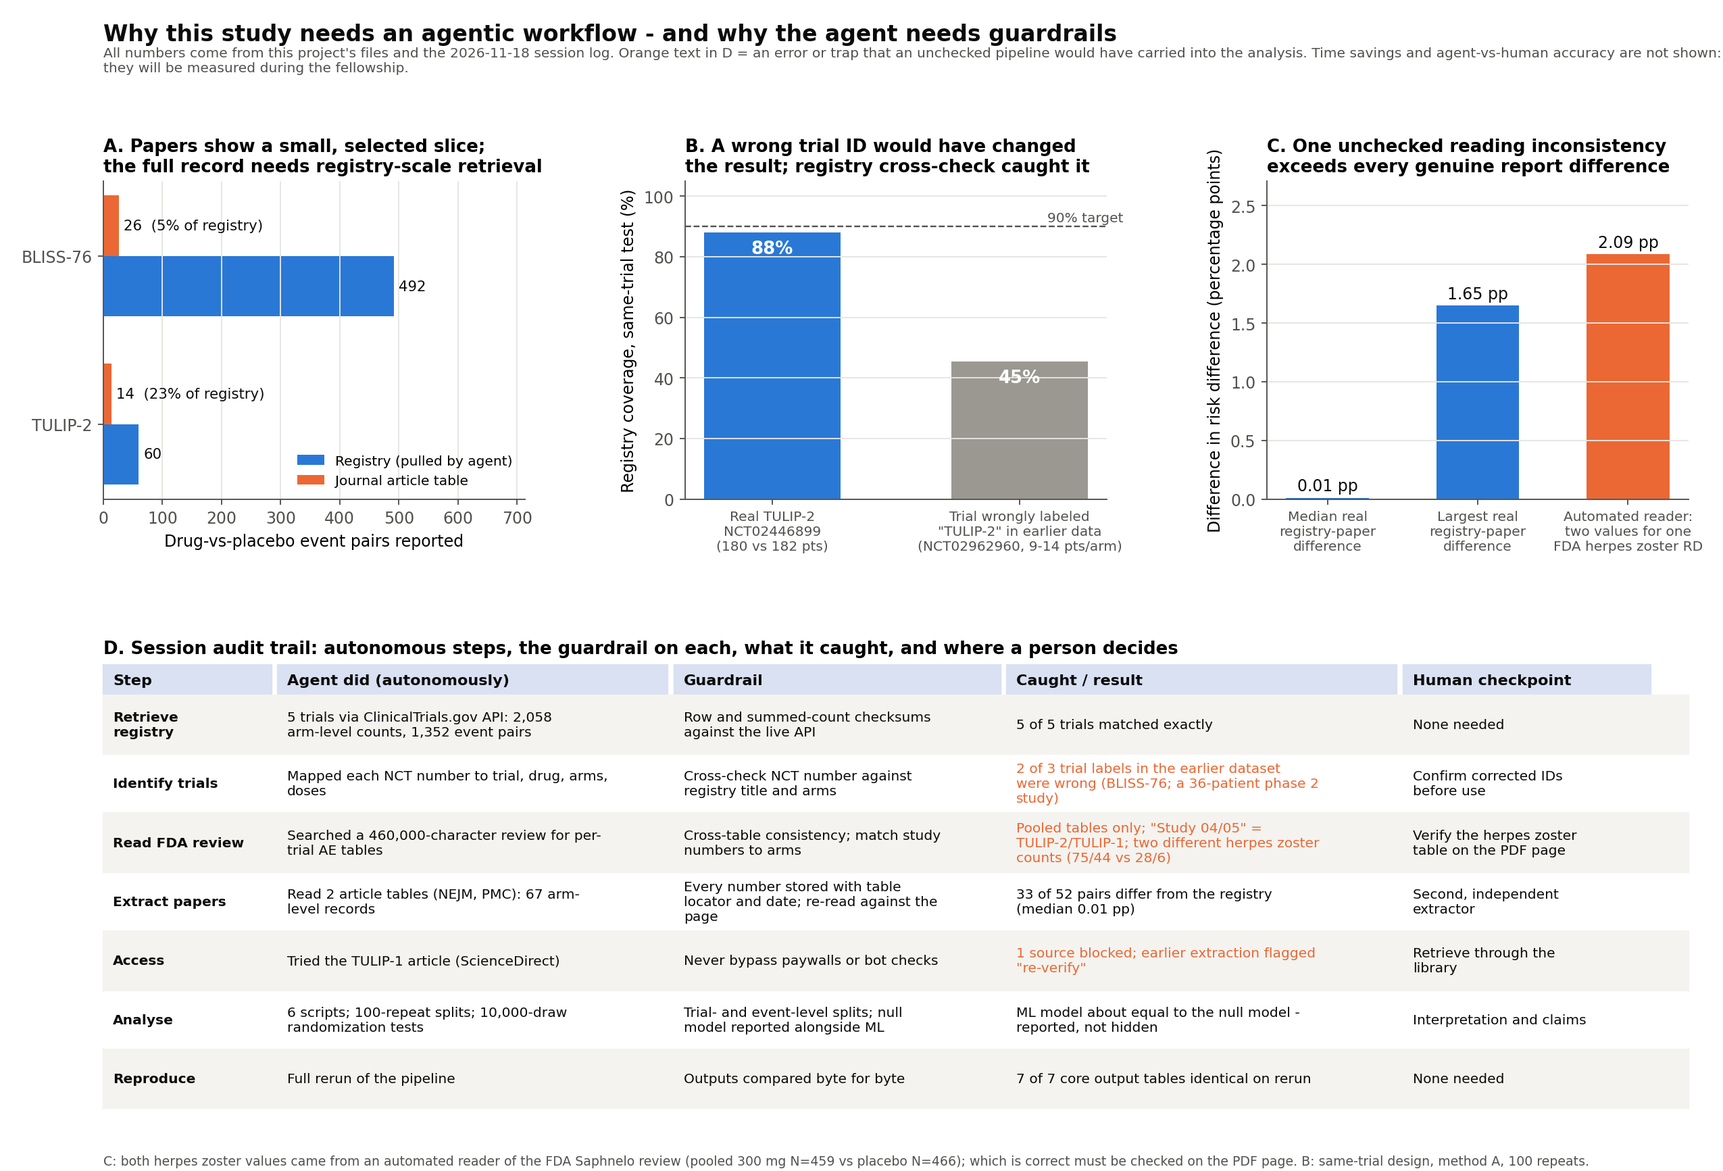
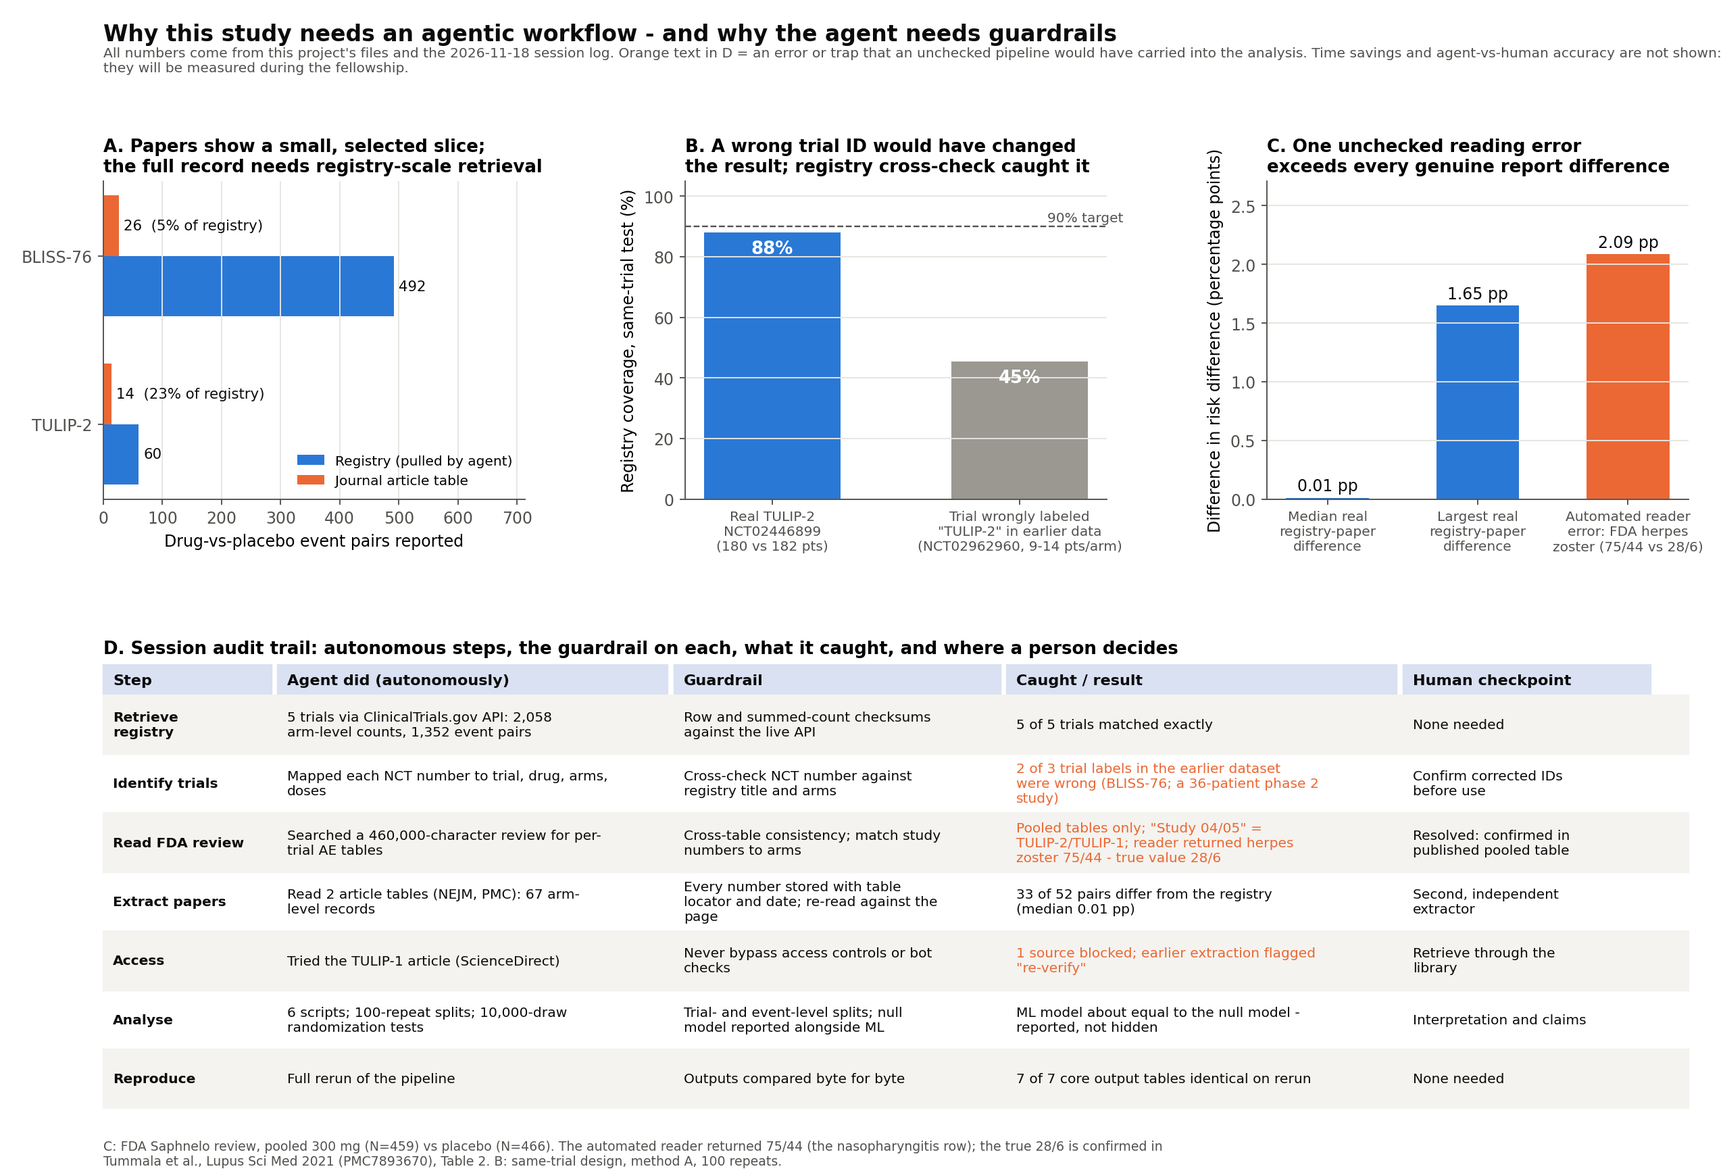
Complete source table; resolve FDA herpes zoster value; locate Benlysta review
- Overview figure panel A: citations, tables and FDA status for all 5 trials
- Saphnelo pooled herpes zoster is 28/6 (Tummala 2021, PMC7893670, Table 2);
  the automated reading's 75/44 was the nasopharyngitis row
- Benlysta medical review located: 212 scanned pages, OCR needed

diff --git a/scripts/08_explainer_figure.py b/scripts/08_explainer_figure.py
@@ -16,20 +16,20 @@ BLUE, ORANGE, RED, INK, INK2, GRID, HDR = '#2a78d6', '#eb6834', '#c4314b', '#0b0
 plt.rcParams.update({'font.family': 'DejaVu Sans', 'font.size': 9.5, 'axes.edgecolor': INK2, 'xtick.color': INK2, 'ytick.color': INK2,
                      'axes.spines.top': False, 'axes.spines.right': False, 'axes.titleweight': 'bold', 'axes.titlesize': 11, 'axes.titlelocation': 'left'})
 fig = plt.figure(figsize=(16, 9.4)); fig.patch.set_facecolor('white')
-gs = fig.add_gridspec(2, 2, height_ratios=[0.78, 1], width_ratios=[1, 1], hspace=.36, wspace=.24, left=.055, right=.985, top=.9, bottom=.135)
+gs = fig.add_gridspec(2, 2, height_ratios=[0.78, 1], width_ratios=[1, 1], hspace=.5, wspace=.24, left=.055, right=.985, top=.9, bottom=.135)
 fig.suptitle('Study overview: adverse-event risk differences for the same lupus trials in ClinicalTrials.gov vs the journal article',
              x=.055, ha='left', fontsize=14, fontweight='bold', color=INK)
 
 # ---------------- A. sources table ----------------
 a = fig.add_subplot(gs[0, :]); a.axis('off'); a.set_title('A. Trials and sources', loc='left')
-cols = ['Trial', 'Registry ID', 'Drug (arms vs placebo)', 'ClinicalTrials.gov\nevent pairs', 'Journal article (table; reporting rule)', 'Article\nevent pairs', 'FDA review']
-W = [.08, .1, .2, .1, .3, .08, .14]; xs = np.cumsum([0] + W[:-1])
+cols = ['Trial', 'Registry ID', 'Drug (arms vs placebo)', 'ClinicalTrials.gov\nevent pairs', 'Journal article (table; reporting rule)', 'Article\nevent pairs', 'FDA approval review']
+W = [.075, .085, .155, .09, .32, .065, .21]; xs = np.cumsum([0] + W[:-1])
 rows = [
- ['TULIP-1', 'NCT02446912', 'anifrolumab IV 150 / 300 mg', n_reg['TULIP-1'], 'Furie 2019, Lancet Rheumatol (6 terms; re-verify)', n_pub['TULIP-1'], 'BLA 761123: pooled'],
- ['TULIP-2', 'NCT02446899', 'anifrolumab IV 300 mg', n_reg['TULIP-2'], 'Morand 2020, NEJM, Table 3 (AEs >5% in drug arm)', n_pub['TULIP-2'], 'BLA 761123: pooled'],
- ['BLISS-76', 'NCT00410384', 'belimumab IV 1 / 10 mg/kg', n_reg['BLISS-76'], 'Furie 2011, Arthritis Rheum, Table 3 (AEs >=10% any arm)', n_pub['BLISS-76'], 'BLA 125370: to locate'],
- ['BLISS-52', 'NCT00424476', 'belimumab IV 1 / 10 mg/kg', n_reg['BLISS-52'], 'not yet extracted (training data only)', '-', 'BLA 125370: to locate'],
- ['D3461C00008', 'NCT02962960', 'anifrolumab SC, phase 2 (n = 36)', n_reg['SC-phase2 (D3461C00008)'], 'not extracted (training data only)', '-', '-'],
+ ['TULIP-1', 'NCT02446912', 'anifrolumab IV 150 / 300 mg', n_reg['TULIP-1'], 'Furie 2019, Lancet Rheumatol 1:e208-19 (6 terms; re-verify)', n_pub['TULIP-1'], 'Saphnelo approval review:\ntrials combined, no per-trial counts'],
+ ['TULIP-2', 'NCT02446899', 'anifrolumab IV 300 mg', n_reg['TULIP-2'], 'Morand 2020, NEJM 382:211-21, Table 3 (AEs >5% in drug arm)', n_pub['TULIP-2'], 'Saphnelo approval review:\ntrials combined, no per-trial counts'],
+ ['BLISS-76', 'NCT00410384', 'belimumab IV 1 / 10 mg/kg', n_reg['BLISS-76'], 'Furie 2011, Arthritis Rheum 63:3918-30, Table 3 (AEs >=10% any arm)', n_pub['BLISS-76'], 'Benlysta approval review:\nscanned pages, text not yet readable'],
+ ['BLISS-52', 'NCT00424476', 'belimumab IV 1 / 10 mg/kg', n_reg['BLISS-52'], 'Navarra 2011, Lancet 377:721-31 (not extracted)', 0, 'Benlysta approval review:\nscanned pages, text not yet readable'],
+ ['D3461C00008', 'NCT02962960', 'anifrolumab SC, phase 2 (n = 36)', n_reg['SC-phase2 (D3461C00008)'], 'Bruce 2021, Lancet Rheumatol 3:e101-10 (not extracted)', 0, 'None: this injection form was\nnot part of the 2021 approval'],
 ]
 top, rh = .93, .155
 for j, c in enumerate(cols):
@@ -41,8 +41,12 @@ for i, r in enumerate(rows):
     for j, v in enumerate(r):
         a.text(xs[j] + .005, y + rh / 2, str(v), transform=a.transAxes, fontsize=9, va='center', color=INK2 if i > 2 else INK,
                fontweight='bold' if j == 0 else 'normal')
-a.text(0, top - .12 - 5 * rh - .1, 'Event pair = one adverse-event term (MedDRA) x one active arm vs placebo x seriousness category.  '
-       'Risk difference (RD) = proportion with the event on drug - proportion on placebo.', transform=a.transAxes, fontsize=8.6, color=INK2)
+a.text(0, top - .12 - 5 * rh - .3,
+       'Event pair = one adverse-event term (MedDRA) x one active arm vs placebo x seriousness category.  '
+       'Risk difference (RD) = proportion with the event on drug - proportion on placebo.\n'
+       'FDA approval review = the document in which the U.S. Food and Drug Administration evaluated the trials before approving the drug '
+       '(Saphnelo: BLA 761123, 2021; Benlysta: BLA 125370, 2011).\n'
+       'BLISS-52 and D3461C00008 are used for training and calibration only.', transform=a.transAxes, fontsize=8.6, color=INK2, linespacing=1.5)
 
 # ---------------- B. registry RD vs article RD, coloured by coverage ----------------
 b = fig.add_subplot(gs[1, 0]); R = E[E.reported].copy()
@@ -83,7 +87,7 @@ c.set_ylabel('Coverage of 90% conformal interval (%)'); c.set_ylim(0, 135); c.se
 c.legend(frameon=False, loc='upper right', fontsize=8.5)
 c.set_title('C. Coverage falls as events get more frequent;\n48 of the 52 article pairs have frequency >= 5%', fontsize=10.5)
 
-fig.text(.055, .045, f'Method: model trained and calibrated on ClinicalTrials.gov only; event-level 5-fold split within trials; split-conformal 90% interval (alpha = 0.10). '
+fig.text(.055, .045, f'Method: model trained and calibrated on ClinicalTrials.gov only; event-level 5-fold split within trials; split-conformal 90% interval (alpha = 0.10).\n'
          f'Coverage over 100 repeats: all registry pairs {100 * g.cov_all_registry:.1f}%; article-reported pairs {100 * g.cov_paper_events_registry_values:.1f}% using registry RD, '
          f'{100 * g.cov_paper_events_paper_values:.1f}% using article RD.', fontsize=8.6, color=INK, wrap=True)
 fig.text(.055, .012, 'B and C use 40 repeats (scripts/06). Sources: ClinicalTrials.gov API v2 (retrieved 2026-11-18); article tables as listed in A. TULIP-1 article values await re-verification.',

diff --git a/scripts/07_agentic_evidence_figure.py b/scripts/07_agentic_evidence_figure.py
@@ -17,7 +17,7 @@ reg = [int(cnt.loc[t, 'ctgov']) for t in tr]; pub = [int(cnt.loc[t, 'publication
 # consequence 1: mislabeled trial (earlier dataset called NCT02962960 "TULIP-2")
 g = T[(T.model == 'GBM') & T.method.str.startswith('A')].set_index('trial')
 cov_real, cov_mis = 100 * g.loc['TULIP-2', 'cov_all_registry'], 100 * g.loc['SC-phase2 (D3461C00008)', 'cov_all_registry']
-# consequence 2: automated PDF reader returned two different herpes zoster counts for the same pooled population
+# consequence 2: automated PDF reader returned 75/44 (nasopharyngitis row) instead of 28/6 for pooled herpes zoster
 rd_a = 75 / 459 - 44 / 466; rd_b = 28 / 459 - 6 / 466
 pdf_gap = 100 * abs(rd_a - rd_b)
 med_real, max_real = S.abs_rd_diff_pp.median(), S.abs_rd_diff_pp.max()
@@ -54,9 +54,9 @@ c = fig.add_subplot(gs[0, 2])
 vals = [med_real, max_real, pdf_gap]; cols = [BLUE, BLUE, ORANGE]
 c.bar([0, 1, 2], vals, .55, color=cols)
 for i, v in enumerate(vals): c.text(i, v + .06, f'{v:.2f} pp', ha='center', fontsize=10, color=INK)
-c.set_xticks([0, 1, 2], ['Median real\nregistry-paper\ndifference', 'Largest real\nregistry-paper\ndifference', 'Automated reader:\ntwo values for one\nFDA herpes zoster RD'], fontsize=8.5)
+c.set_xticks([0, 1, 2], ['Median real\nregistry-paper\ndifference', 'Largest real\nregistry-paper\ndifference', 'Automated reader\nerror: FDA herpes\nzoster (75/44 vs 28/6)'], fontsize=8.5)
 c.set_ylabel('Difference in risk difference (percentage points)'); c.set_ylim(0, pdf_gap * 1.3); c.grid(axis='y', color=GRID)
-c.set_title('C. One unchecked reading inconsistency\nexceeds every genuine report difference', fontsize=11)
+c.set_title('C. One unchecked reading error\nexceeds every genuine report difference', fontsize=11)
 
 # D. ledger: what the agent did autonomously, the guardrail, what it caught, the human checkpoint
 d = fig.add_subplot(gs[1, :]); d.axis('off')
@@ -66,9 +66,9 @@ W = [.11, .25, .21, .25, .16]
 rows = [
  ['Retrieve registry', '5 trials via ClinicalTrials.gov API: 2,058 arm-level counts, 1,352 event pairs', 'Row and summed-count checksums against the live API', '5 of 5 trials matched exactly', 'None needed'],
  ['Identify trials', 'Mapped each NCT number to trial, drug, arms, doses', 'Cross-check NCT number against registry title and arms', '2 of 3 trial labels in the earlier dataset were wrong (BLISS-76; a 36-patient phase 2 study)', 'Confirm corrected IDs before use'],
- ['Read FDA review', 'Searched a 460,000-character review for per-trial AE tables', 'Cross-table consistency; match study numbers to arms', 'Pooled tables only; "Study 04/05" = TULIP-2/TULIP-1; two different herpes zoster counts (75/44 vs 28/6)', 'Verify the herpes zoster table on the PDF page'],
+ ['Read FDA review', 'Searched a 460,000-character review for per-trial AE tables', 'Cross-table consistency; match study numbers to arms', 'Pooled tables only; "Study 04/05" = TULIP-2/TULIP-1; reader returned herpes zoster 75/44 - true value 28/6', 'Resolved: confirmed in published pooled table'],
  ['Extract papers', 'Read 2 article tables (NEJM, PMC): 67 arm-level records', 'Every number stored with table locator and date; re-read against the page', f'{n_differ} of {n_pairs} pairs differ from the registry (median {med_real:.2f} pp)', 'Second, independent extractor'],
- ['Access', 'Tried the TULIP-1 article (ScienceDirect)', 'Never bypass paywalls or bot checks', '1 source blocked; earlier extraction flagged "re-verify"', 'Retrieve through the library'],
+ ['Access', 'Tried the TULIP-1 article (ScienceDirect)', 'Never bypass access controls or bot checks', '1 source blocked; earlier extraction flagged "re-verify"', 'Retrieve through the library'],
  ['Analyse', '6 scripts; 100-repeat splits; 10,000-draw randomization tests', 'Trial- and event-level splits; null model reported alongside ML', 'ML model about equal to the null model - reported, not hidden', 'Interpretation and claims'],
  ['Reproduce', 'Full rerun of the pipeline', 'Outputs compared byte for byte', '7 of 7 core output tables identical on rerun', 'None needed'],
 ]
@@ -89,7 +89,6 @@ for i, r in enumerate(rows):
 fig.suptitle('Why this study needs an agentic workflow - and why the agent needs guardrails', x=.06, ha='left', fontsize=14, fontweight='bold', color=INK)
 fig.text(.06, .94, 'All numbers come from this project\'s files and the 2026-11-18 session log. Orange text in D = an error or trap that an unchecked pipeline would have carried into the analysis. '
          'Time savings and agent-vs-human accuracy are not shown: they will be measured during the fellowship.', fontsize=8.6, color=INK2, wrap=True)
-fig.text(.06, .005, 'C: both herpes zoster values came from an automated reader of the FDA Saphnelo review (pooled 300 mg N=459 vs placebo N=466); which is correct must be checked on the PDF page. '
-         'B: same-trial design, method A, 100 repeats.', fontsize=8, color=INK2)
+fig.text(.06, .005, 'C: FDA Saphnelo review, pooled 300 mg (N=459) vs placebo (N=466). The automated reader returned 75/44 (the nasopharyngitis row); the true 28/6 is confirmed in\nTummala et al., Lupus Sci Med 2021 (PMC7893670), Table 2. B: same-trial design, method A, 100 repeats.', fontsize=8, color=INK2)
 fig.savefig('../figures/agentic_workflow_evidence.png', dpi=170)
 print('saved', dict(reg=reg, pub=pub, cov_real=round(cov_real, 1), cov_mis=round(cov_mis, 1), pdf_gap=round(pdf_gap, 2), med=med_real, mx=max_real, n_differ=n_differ))

diff --git a/scripts/04_make_documented_xlsx.py b/scripts/04_make_documented_xlsx.py
@@ -344,7 +344,7 @@ for rel, doc in DOCS.items():
         c.alignment = WR
         m = doc['cols'].get(col)
         if m:
-            c.comment = Comment(f'{m[0]}. Units/values: {m[1]}. Source: {m[2]}', 'Claude', width=320, height=130)
+            c.comment = Comment(f'{m[0]}. Units/values: {m[1]}. Source: {m[2]}', 'A. Mukherjee', width=320, height=130)
         p90 = int(df[col].astype(str).str.len().quantile(.9)) if len(df) else 8
         ws.column_dimensions[get_column_letter(j)].width = min(45, max(10, len(col) + 2, p90 + 2))
     for i, row in enumerate(df.itertuples(index=False), 2):

diff --git a/README.md b/README.md
@@ -88,9 +88,9 @@ time a number changes. It depends equally on **guardrails**. In the first workin
 | Guardrail | What it caught |
 |---|---|
 | Cross-check every NCT number against the registry title and arms | **2 of 3 trial labels** in an earlier internal dataset were wrong. One mislabeled "trial" was a 36-patient phase 2 study, with registry coverage of 45% against 88% for the real TULIP-2 |
-| Cross-table consistency on FDA reviews | An automated PDF reading gave two different herpes zoster counts for one pooled population. The gap is 2.09 points of risk difference, bigger than any genuine registry-article difference |
+| Cross-table consistency on FDA reviews | An automated PDF reading returned the wrong row for pooled herpes zoster (75/44 instead of 28/6, since confirmed in the published pooled analysis). The error is 2.09 points of risk difference, bigger than any genuine registry-article difference |
 | Match FDA study numbers to arms | FDA "Study 04" is TULIP-2 and "Study 05" is TULIP-1 |
-| Never bypass paywalls or bot checks | One article was blocked; its earlier extraction is flagged **re-verify** |
+| Never bypass access controls or bot checks | One article was blocked; its earlier extraction is flagged **re-verify** |
 | Row- and count-checksums against the live API | 5 of 5 trials matched exactly |
 | Byte-level reproducibility | All outputs identical across two machines (Python 3.10 and 3.13) |
 
@@ -100,13 +100,16 @@ Both are planned outcomes (see the roadmap below).
 
 ## Data
 
-| Trial | NCT | Drug / route | Registry | Article table | FDA review |
+| Trial | NCT | Drug / route | Registry | Article table | FDA approval review |
 |---|---|---|---|---|---|
-| TULIP-1 | NCT02446912 | anifrolumab IV 150/300 mg | 160 terms | Furie 2019 *Lancet Rheumatol*, 6 terms (**re-verify**) | pooled only |
-| TULIP-2 | NCT02446899 | anifrolumab IV 300 mg | 60 terms | Morand 2020 *NEJM* Table 3, 14 terms | pooled only |
-| BLISS-76 | NCT00410384 | belimumab IV 1/10 mg/kg | 246 terms | Furie 2011 *Arthritis Rheum* (PMC5007058) Table 3, 13 terms | to locate |
-| BLISS-52 | NCT00424476 | belimumab IV 1/10 mg/kg | 165 terms | planned | to locate |
-| D3461C00008 | NCT02962960 | anifrolumab SC, phase 2 (n = 36) | 75 terms | not planned | none |
+| TULIP-1 | NCT02446912 | anifrolumab IV 150/300 mg | 160 terms | Furie 2019 *Lancet Rheumatol*, 6 terms (**re-verify**) | Saphnelo review: trials combined, no per-trial counts |
+| TULIP-2 | NCT02446899 | anifrolumab IV 300 mg | 60 terms | Morand 2020 *NEJM* Table 3, 14 terms | Saphnelo review: trials combined, no per-trial counts |
+| BLISS-76 | NCT00410384 | belimumab IV 1/10 mg/kg | 246 terms | Furie 2011 *Arthritis Rheum* (PMC5007058) Table 3, 13 terms | Benlysta review: scanned pages, text not yet readable |
+| BLISS-52 | NCT00424476 | belimumab IV 1/10 mg/kg | 165 terms | Navarra 2011 *Lancet* 377:721-31 (planned) | Benlysta review: scanned pages, text not yet readable |
+| D3461C00008 | NCT02962960 | anifrolumab SC, phase 2 (n = 36) | 75 terms | Bruce 2021 *Lancet Rheumatol* 3:e101-10 (not planned) | None: this injection form was not part of the 2021 approval |
+
+*FDA approval review* = the document in which the U.S. Food and Drug Administration evaluated the trials before approving the drug
+(Saphnelo: BLA 761123, 2021; Benlysta: BLA 125370, 2011).
 
 Unit of analysis: risk difference RD = a/n<sub>1</sub> − c/n<sub>0</sub> for each trial × active arm × MedDRA term × seriousness
 (1,352 registry pairs). Model inputs are drug, route, dose, term, organ class, seriousness, phase, follow-up and arm sizes.
@@ -165,7 +168,8 @@ make excel       # documented .xlsx copy of every table (an About sheet plus a c
 
 ## v0.2 - complete, checkable dataset (December 2026)
 - [ ] Re-verify the TULIP-1 article table (library access); extract the BLISS-52 article
-- [ ] Locate the Benlysta FDA clinical review; check the Saphnelo herpes zoster tables on the PDF page
+- [x] Locate the Benlysta FDA medical review (212 scanned pages); resolve the Saphnelo herpes zoster value (28/6)
+- [ ] OCR the Benlysta medical review and extract per-trial tables for BLISS-76 and BLISS-52
 - [ ] Post the extraction protocol on OSF **before** final extraction
 - [ ] Double extraction: a human extractor plus an agent-assisted pass, reconciled; report agreement before reconciliation
 - [ ] Target: 100-150 matched trial-event pairs across 4 phase 3 trials
@@ -184,4 +188,4 @@ make excel       # documented .xlsx copy of every table (an About sheet plus a c
 ## Cite
 
 See [`CITATION.cff`](CITATION.cff). Author: **Arnab Mukherjee**, Oklahoma State University Center for Health Sciences.
-Research agent: Claude (Anthropic), working under the rules in `AGENTS.md`. Every decision was reviewed by the author.
+Research agent: an AI coding agent, working under the rules in `AGENTS.md`. Every decision was reviewed by the author.

diff --git a/AGENTS.md b/AGENTS.md
@@ -1,6 +1,6 @@
 # Rules for AI agents working in this repository
 
-These rules apply to any AI agent (Claude, Codex or others) that reads, extracts, analyses or edits here.
+These rules apply to any AI agent that reads, extracts, analyses or edits here.
 A person reviews every change before it is used in a result.
 
 ## Agents may do autonomously
@@ -15,7 +15,7 @@ A person reviews every change before it is used in a result.
 3. **Provenance on every number.** Each extracted count carries its source, citation, table locator and retrieval date. Every row needs one.
 4. **Not reported is not zero.** An event a source does not list is recorded as missing, never as 0.
 5. **Cross-table consistency.** When one quantity appears in two places in a document, both values are recorded. If they disagree, the item is flagged for a person to check on the page. Neither value is picked silently.
-6. **No circumvention.** Never bypass paywalls, logins, bot checks or rate limits. A blocked source is logged and handed to a person.
+6. **No circumvention.** Never bypass access controls, logins, bot checks or rate limits. A blocked source is logged and handed to a person.
 7. **Trial-level splits.** A trial's registry, article and FDA records always stay in the same training, calibration or test group. Leakage across reports is a bug.
 8. **Baselines are reported.** Every model result is shown next to the null model (RD = 0), including when the null model does as well.
 9. **Reproducibility.** `make reproduce` must pass before a result is cited. Update `checksums/expected.md5` only together with a logged reason.
@@ -33,14 +33,14 @@ Each entry records what the AI agent did, which guardrail fired, and what the au
 
 ### 2026-11-18 - session 1 (project start)
 
-**Agent:** Claude (Anthropic). **Reviewer:** A. Mukherjee.
+**Agent:** AI research agent. **Reviewer:** A. Mukherjee.
 
 | # | Step | Guardrail | Event | Decision / status |
 |---|---|---|---|---|
 | 1 | Pulled ClinicalTrials.gov results for 5 trials (API v2) | Checksums against the live API | TULIP-1 160 terms / 1,092 summed counts; TULIP-2 60 / 425; BLISS-76 246 / 2,565; BLISS-52 165 / 1,972; NCT02962960 75 / 111. All matched | Snapshots accepted |
 | 2 | Checked trial identities | NCT ↔ registry title and arms | An earlier internal dataset labelled NCT00410384 as "MEDI-4920" (it is **BLISS-76**, belimumab) and NCT02962960 as "TULIP-2" (it is a **36-patient phase 2 subcutaneous anifrolumab study**). TULIP-2 is NCT02446899 | Labels corrected in `data/registry_ctgov.csv`; counts unchanged |
-| 3 | Searched the FDA Saphnelo review (BLA 761123) for per-trial AE tables | Study numbers ↔ arms; cross-table consistency | All AE tables pool MUSE, TULIP-1 and TULIP-2. "Study 04" = TULIP-2, "Study 05" = TULIP-1. The automated reading gave herpes zoster as 75/44 (Table 56) and as 28/6 (Table 63) for the same pooled population | FDA used descriptively only. **Open:** check the herpes zoster value on the PDF page |
-| 4 | Benlysta FDA review (BLA 125370) | - | Retrieved file was a filing checklist only | **Open:** locate the clinical safety review |
+| 3 | Searched the FDA Saphnelo review (BLA 761123) for per-trial AE tables | Study numbers ↔ arms; cross-table consistency | All AE tables pool MUSE, TULIP-1 and TULIP-2. "Study 04" = TULIP-2, "Study 05" = TULIP-1. The automated reading gave herpes zoster as 75/44 (Table 56) and as 28/6 (Table 63) for the same pooled population | FDA used descriptively only. **Resolved:** 28/6 is correct, confirmed in Tummala et al., *Lupus Sci Med* 2021 (PMC7893670), Table 2; 75/44 was the nasopharyngitis row |
+| 4 | Benlysta FDA review (BLA 125370) | - | Medical review located (125370Orig1s000MedR.pdf): 212 pages of scanned images with no text layer, which is why automated reading saw only the checklist | **Open:** OCR, then extract per-trial tables |
 | 5 | Extracted the TULIP-2 article (NEJM 2020, Table 3) and the BLISS-76 article (PMC5007058, Table 3) | Locator and date on every number; re-read against the page | 67 arm-level records | Accepted, single extractor |
 | 6 | TULIP-1 article (ScienceDirect) | No circumvention | Bot check blocked access | Earlier extraction (6 terms) kept and flagged **re-verify**. **Open:** retrieve through the library |
 | 7 | Ran the leave-one-trial-out and same-trial analyses | Trial- and event-level splits; null-model baseline | ML model about equal to the null model | Reported in the README |
